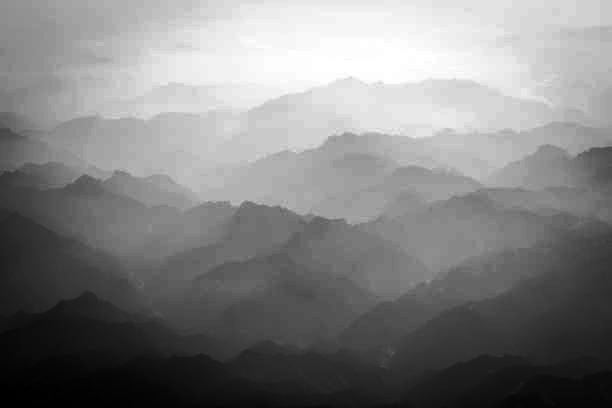
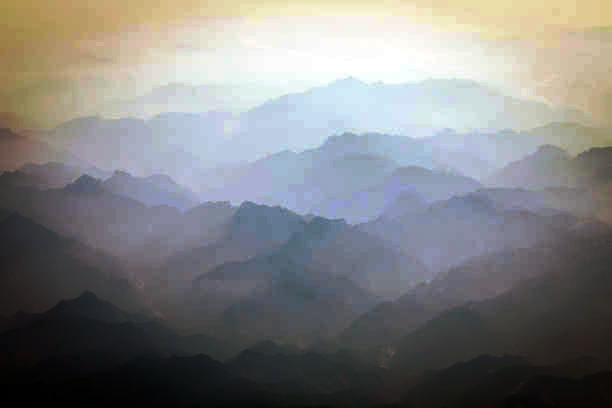
Handling with all channels of RGB system color

diff --git a/02-image-equalization/equalization.py b/02-image-equalization/equalization.py
@@ -3,40 +3,62 @@ import numpy as np
 from matplotlib import pyplot as plt
 
 # Importando imagem
-img = cv2.imread('example-image.jpg', 0)
+img = cv2.imread('example-image.jpg', cv2.IMREAD_COLOR)
+
+# Separando camadas e pegando dimensoes da imagem
 img_width = img.shape[0]
 img_height = img.shape[1]
+img_channels = img.shape[2]
+
 red_channel = img[:,:,2]
 green_channel = img[:,:,1]
 blue_channel = img[:,:,0]
 
 # Criando e preechendo histograma
-histogram = np.zeros(256)
+red_channel_histogram = np.zeros(256)
+green_channel_histogram = np.zeros(256)
+blue_channel_histogram = np.zeros(256)
+
 for i in range(img_width):
     for j in range(img_height):
-        pixel_value = img[i][j]
-        histogram[pixel_value] = histogram[pixel_value] + 1
+        pixel_value = red_channel[i][j]
+        red_channel_histogram[pixel_value] = red_channel_histogram[pixel_value] + 1
+
+        pixel_value = green_channel[i][j]
+        green_channel_histogram[pixel_value] = green_channel_histogram[pixel_value] + 1
+        
+        pixel_value = blue_channel[i][j]
+        blue_channel_histogram[pixel_value] = blue_channel_histogram[pixel_value] + 1
+
 
 # Normalizando histograma
 qtd_pixel = img_width * img_height
-for i in range(len(histogram)):
-    histogram[i] = histogram[i] / qtd_pixel
+for i in range(len(red_channel_histogram)):
+    red_channel_histogram[i] = red_channel_histogram[i] / qtd_pixel
+    green_channel_histogram[i] = green_channel_histogram[i] / qtd_pixel
+    blue_channel_histogram[i] = blue_channel_histogram[i] / qtd_pixel
 
-plt.bar(np.arange(len(histogram)), histogram)
-plt.show()
+#plt.bar(np.arange(len(red_channel_histogram)), red_channel_histogram)
+#plt.show()
 
 # Calculando função acumulada
-histogram_ac = np.cumsum(histogram)
+red_channel_histogram_ac = np.cumsum(red_channel_histogram)
+green_channel_histogram_ac = np.cumsum(green_channel_histogram)
+blue_channel_histogram_ac = np.cumsum(blue_channel_histogram)
 
-plt.bar(np.arange(len(histogram_ac)), histogram_ac)
-plt.show()
+#plt.bar(np.arange(len(red_channel_histogram_ac)), red_channel_histogram_ac)
+#plt.show()
 
-# Criando a imagem resultante
+# Criando a imagens resultante
 img_eq = np.zeros(img.shape)
 for i in range(img_width):
     for j in range(img_height):
-        index = img[i][j]
-        img_eq[i][j] = 255 * histogram_ac[index]
+        index = blue_channel[i][j]
+        img_eq[i][j][0] = 255 * blue_channel_histogram_ac[index]
+        index = green_channel[i][j]
+        img_eq[i][j][1] = 255 * green_channel_histogram_ac[index]
+        index = red_channel[i][j]
+        img_eq[i][j][2] = 255 * red_channel_histogram_ac[index]
 
 stacked_imgs = np.hstack((img,img_eq))
 cv2.imwrite("equalized-image.jpg", img_eq)
